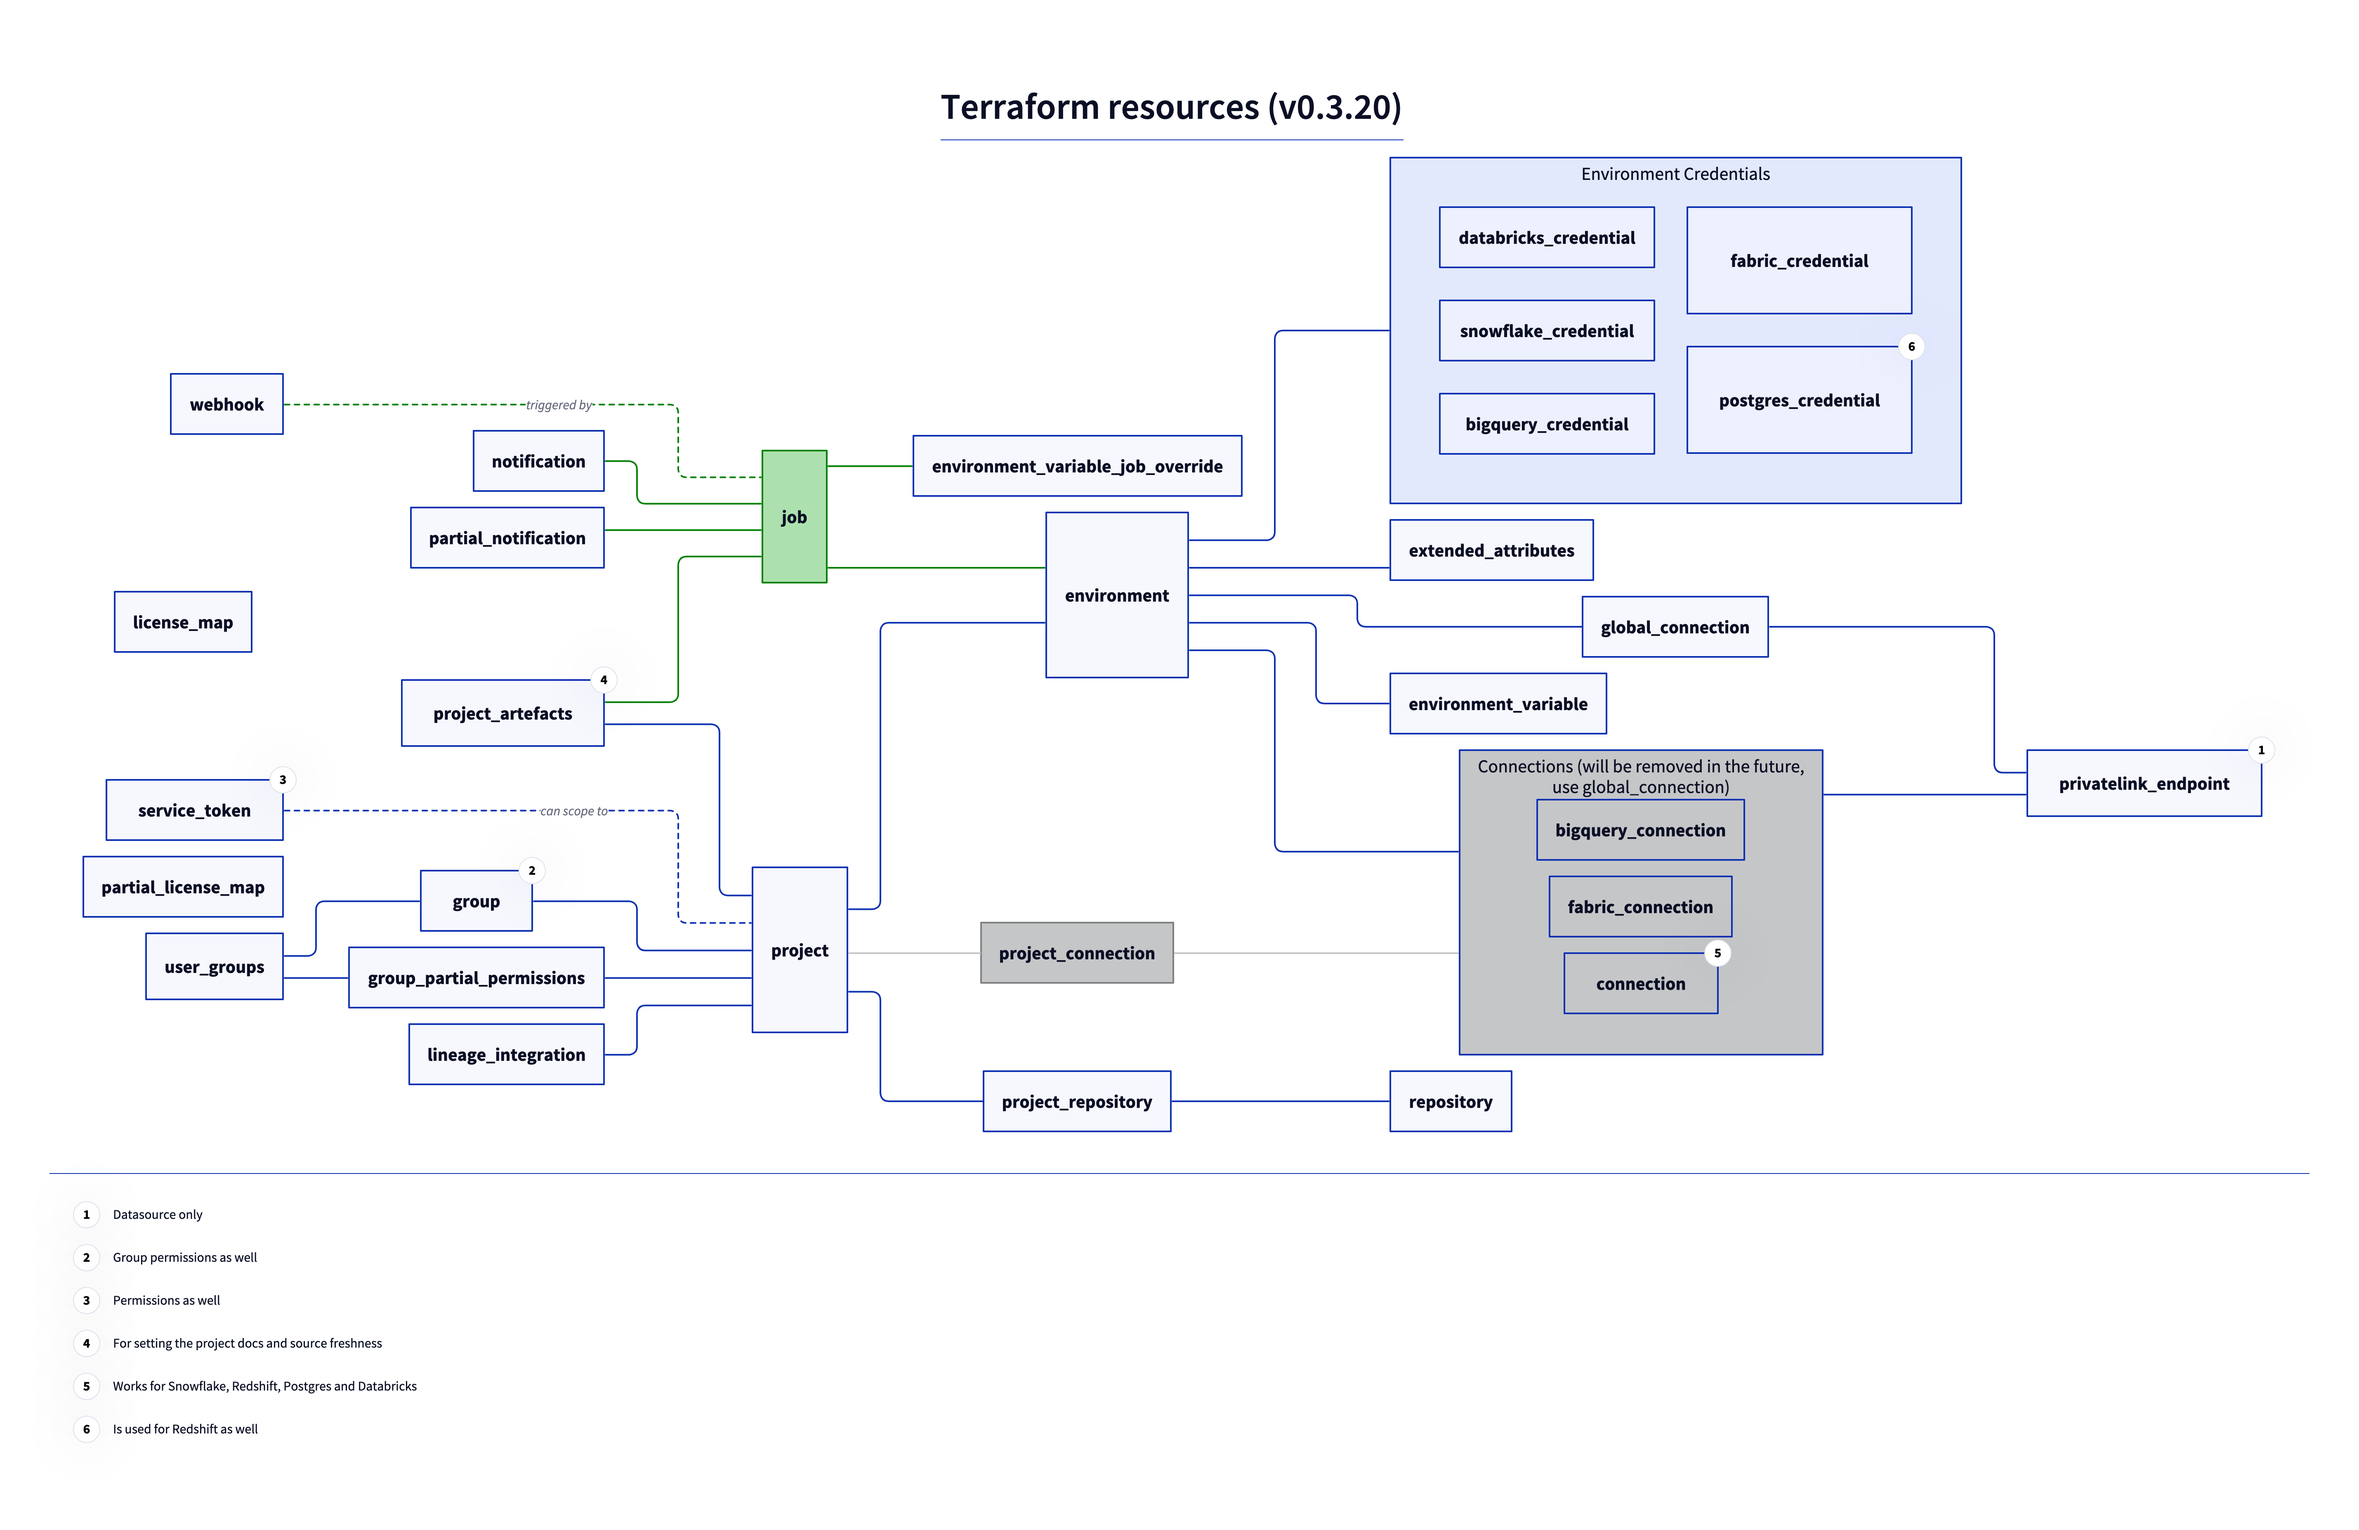
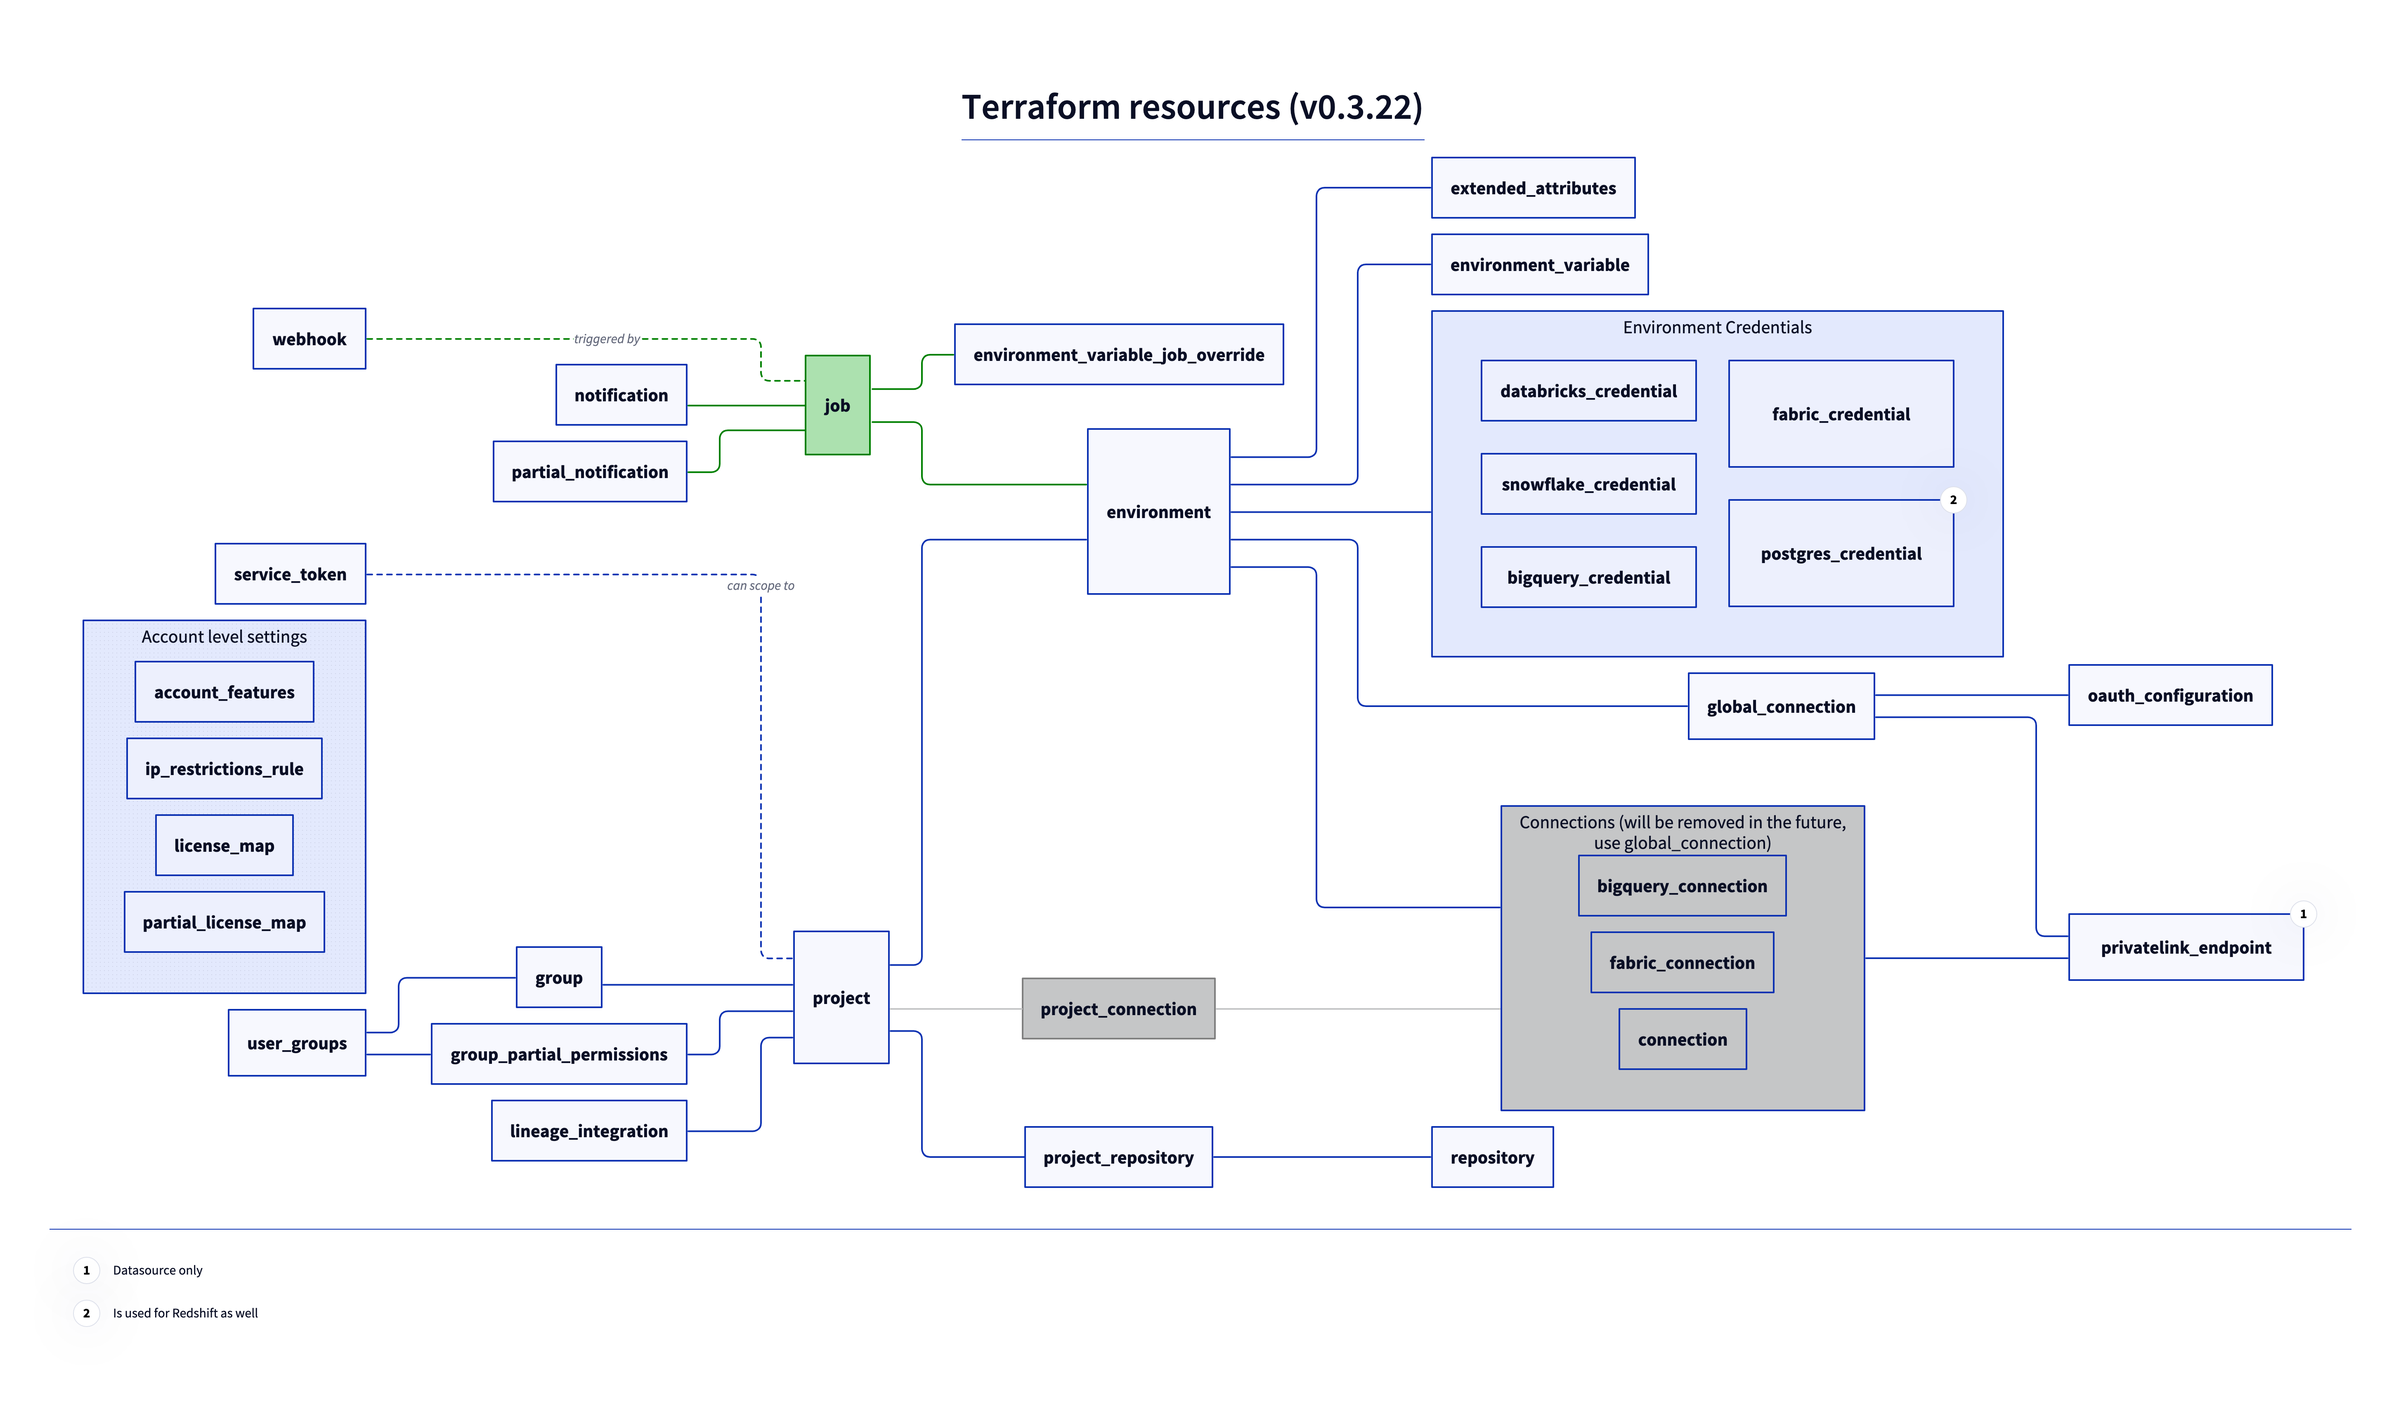
Update docs and Changelog

diff --git a/CHANGELOG.md b/CHANGELOG.md
@@ -2,7 +2,14 @@
 
 All notable changes to this project will be documented in this file.
 
-## [Unreleased](https://github.com/dbt-labs/terraform-provider-dbtcloud/compare/v0.3.21...HEAD)
+## [Unreleased](https://github.com/dbt-labs/terraform-provider-dbtcloud/compare/v0.3.22...HEAD)
+
+# [0.3.22](https://github.com/dbt-labs/terraform-provider-dbtcloud/compare/v0.3.21...v0.3.22)
+
+### Changes
+
+- Add resource `dbtcloud_account_features` to manage account level features like Advanced CI
+- Add resource `dbtcloud_ip_restrictions_rule` to manage IP restrictions for customers with access to the feature in dbt Cloud
 
 # [0.3.21](https://github.com/dbt-labs/terraform-provider-dbtcloud/compare/v0.3.20...v0.3.21)
 
